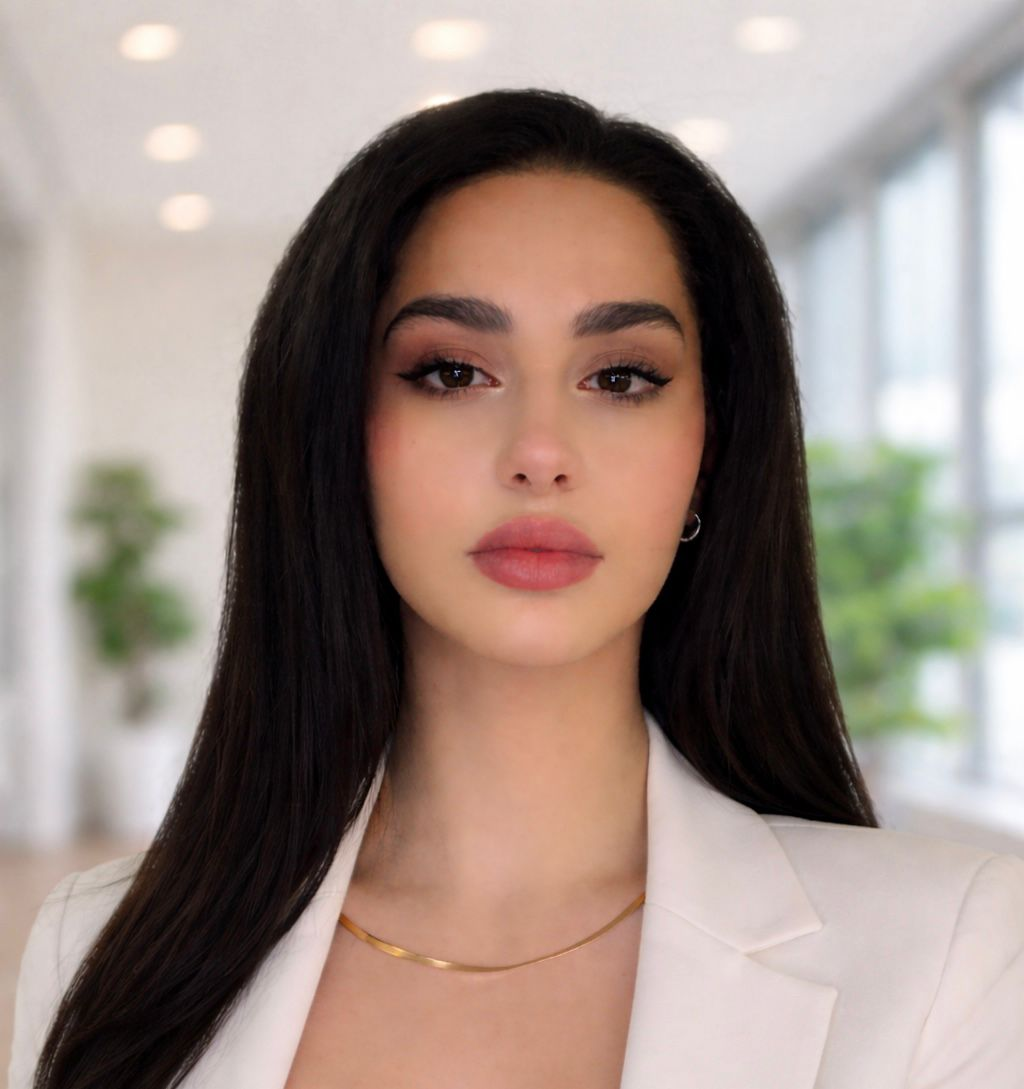
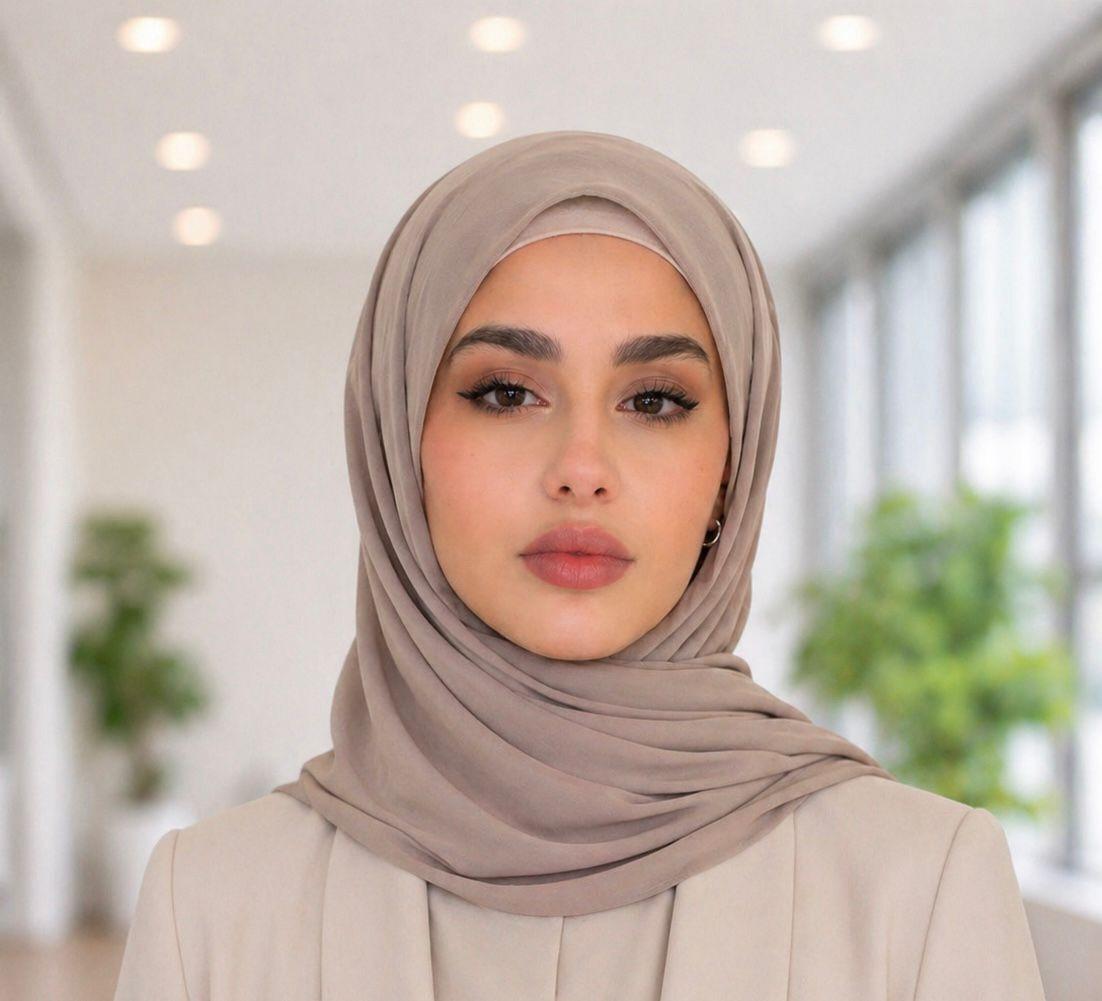
Change the pic

diff --git a/src/data/projects.js b/src/data/projects.js
@@ -60,13 +60,13 @@ const projects = [
     id: 3,
     title: "AI Study Coach",
     description:
-      "AI-powered study assistant that generates personalised quizzes and adapts difficulty based on performance.",
+      "Full-stack MERN AI study assistant — quiz generation, document upload, study plans, progress tracking, and a Pomodoro focus timer.",
     bullets: [
-      "Prompt engineering + LLM chaining for adaptive difficulty quiz generation",
-      "Tracks learning progress across topics with performance analytics",
-      "Clean Streamlit UI with topic selection and score history",
+      "Built complete REST API with auth, quiz generation, document upload, study plan creation, and performance analytics",
+      "Pomodoro focus timer with streaks, music, drag functionality, and motivational quotes",
+      "MongoDB + Mongoose for user data, questions, documents, and progress tracking",
     ],
-    tech: ["Python", "OpenAI API", "LangChain", "Streamlit"],
+    tech: ["React", "Node.js", "Express", "MongoDB", "Mongoose", "JWT", "Multer"],
     category: "genai",
     year: 2025,
     freelance: false,
